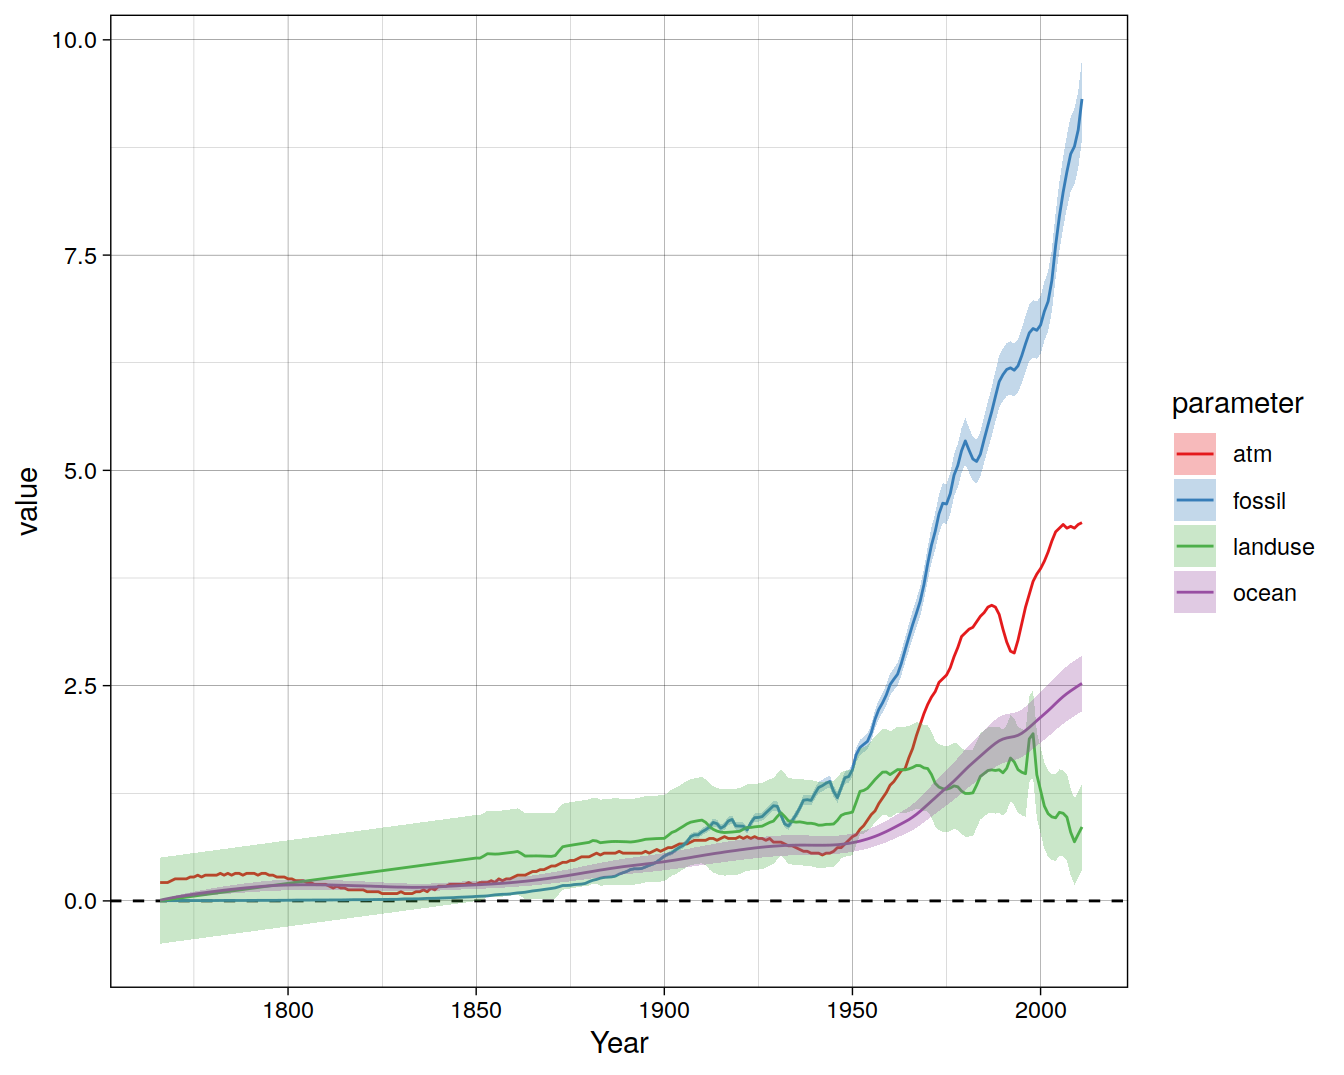
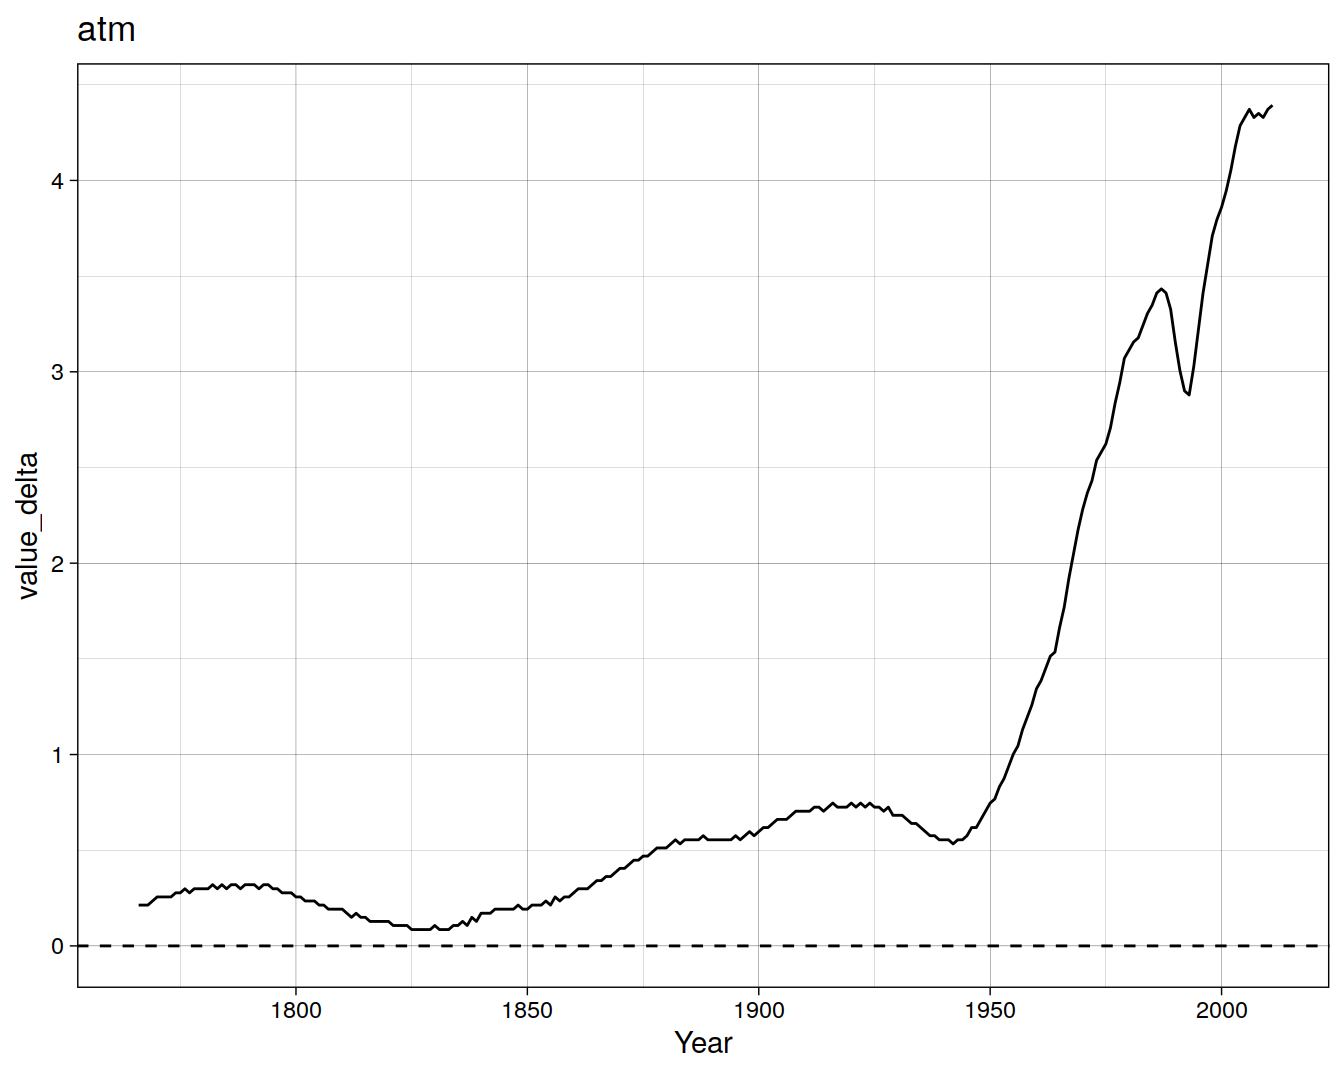
Build site.

diff --git a/docs/interior_storage.html b/docs/interior_storage.html
@@ -494,16 +494,16 @@ This reproducible <a href="https://rmarkdown.rstudio.com">R Markdown</a> analysi
 <div class="panel panel-default">
 <div class="panel-heading">
 <p class="panel-title">
-<a data-toggle="collapse" data-parent="#workflowr-checks" href="#strongRepositoryversionstrongahrefhttpsgithubcomjensdanielmuelleroceancarbonsinkreviewtree8729eda97f576e6bf22db37195b0b09c24f0d1fetargetblank8729edaa"> <span class="glyphicon glyphicon-ok text-success" aria-hidden="true"></span> <strong>Repository version:</strong> <a href="https://github.com/jens-daniel-mueller/ocean_carbon_sink_review/tree/8729eda97f576e6bf22db37195b0b09c24f0d1fe" target="_blank">8729eda</a> </a>
+<a data-toggle="collapse" data-parent="#workflowr-checks" href="#strongRepositoryversionstrongahrefhttpsgithubcomjensdanielmuelleroceancarbonsinkreviewtree1e0391d1a98858e36aef106eb062905f18747d8ftargetblank1e0391da"> <span class="glyphicon glyphicon-ok text-success" aria-hidden="true"></span> <strong>Repository version:</strong> <a href="https://github.com/jens-daniel-mueller/ocean_carbon_sink_review/tree/1e0391d1a98858e36aef106eb062905f18747d8f" target="_blank">1e0391d</a> </a>
 </p>
 </div>
[2 lines of base64/hex data omitted]
 <div class="panel-body">
 <p>
 Great! You are using Git for version control. Tracking code development and connecting the code version to the results is critical for reproducibility.
 </p>
 <p>
-The results in this page were generated with repository version <a href="https://github.com/jens-daniel-mueller/ocean_carbon_sink_review/tree/8729eda97f576e6bf22db37195b0b09c24f0d1fe" target="_blank">8729eda</a>. See the <em>Past versions</em> tab to see a history of the changes made to the R Markdown and HTML files.
+The results in this page were generated with repository version <a href="https://github.com/jens-daniel-mueller/ocean_carbon_sink_review/tree/1e0391d1a98858e36aef106eb062905f18747d8f" target="_blank">1e0391d</a>. See the <em>Past versions</em> tab to see a history of the changes made to the R Markdown and HTML files.
 </p>
 <p>
 Note that you need to be careful to ensure that all relevant files for the analysis have been committed to Git prior to generating the results (you can use <code>wflow_publish</code> or <code>wflow_git_commit</code>). workflowr only checks the R Markdown file, but you know if there are other scripts or data files that it depends on. Below is the status of the Git repository when the results were generated:
@@ -559,6 +559,40 @@ Message
 </tr>
 </thead>
 <tbody>
+<tr>
+<td>
+Rmd
+</td>
+<td>
+<a href="https://github.com/jens-daniel-mueller/ocean_carbon_sink_review/blob/1e0391d1a98858e36aef106eb062905f18747d8f/analysis/interior_storage.Rmd" target="_blank">1e0391d</a>
+</td>
+<td>
+jens-daniel-mueller
+</td>
+<td>
+2022-02-24
+</td>
+<td>
+added interior storage
+</td>
+</tr>
+<tr>
+<td>
+html
+</td>
+<td>
+<a href="https://rawcdn.githack.com/jens-daniel-mueller/ocean_carbon_sink_review/2833f8744bcd07b56011a57b34b866e31e969961/docs/interior_storage.html" target="_blank">2833f87</a>
+</td>
+<td>
+jens-daniel-mueller
+</td>
+<td>
+2022-02-24
+</td>
+<td>
+Build site.
+</td>
+</tr>
 <tr>
 <td>
 Rmd
@@ -813,13 +847,17 @@ khatiwala &lt;- full_join(khatiwala, khatiwala_m) </code></pre>
 <pre><code>Joining, by = c(&quot;Year&quot;, &quot;parameter&quot;)</code></pre>
 <pre class="r"><code>khatiwala &lt;- full_join(khatiwala, khatiwala_p) </code></pre>
 <pre><code>Joining, by = c(&quot;Year&quot;, &quot;parameter&quot;)</code></pre>
-<pre class="r"><code>khatiwala %&gt;% 
-  ggplot(aes(Year, value)) +
-  geom_hline(yintercept = 0, linetype = 2) +
-  scale_color_brewer(palette = &quot;Set1&quot;) +
-  scale_fill_brewer(palette = &quot;Set1&quot;) +
-  geom_line(aes(col=parameter)) +
-  geom_ribbon(aes(ymin = m, ymax = p, fill=parameter), alpha = 0.3)</code></pre>
+<pre class="r"><code>khatiwala %&gt;%
+  group_split(parameter) %&gt;%
+  map(
+    ~ ggplot(data = .x,
+             aes(Year, value)) +
+      geom_hline(yintercept = 0, linetype = 2) +
+      geom_line() +
+      labs(title = .x$parameter) +
+      geom_ribbon(aes(ymin = m, ymax = p), alpha = 0.3)
+  )</code></pre>
+<pre><code>[[1]]</code></pre>
 <pre><code>Warning in max(ids, na.rm = TRUE): no non-missing arguments to max; returning
 -Inf</code></pre>
 <p><img src="figure/interior_storage.Rmd/time_series-1.png" width="672" style="display: block; margin: auto;" /></p>
@@ -845,6 +883,17 @@ Date
 </tr>
 </thead>
 <tbody>
+<tr>
+<td>
+<a href="https://github.com/jens-daniel-mueller/ocean_carbon_sink_review/blob/2833f8744bcd07b56011a57b34b866e31e969961/docs/figure/interior_storage.Rmd/time_series-1.png" target="_blank">2833f87</a>
+</td>
+<td>
+jens-daniel-mueller
+</td>
+<td>
+2022-02-24
+</td>
+</tr>
 <tr>
 <td>
 <a href="https://github.com/jens-daniel-mueller/ocean_carbon_sink_review/blob/bc557cc84c3bc2f92ac664c2266e5f8305e95871/docs/figure/interior_storage.Rmd/time_series-1.png" target="_blank">bc557cc</a>
@@ -882,27 +931,41 @@ jens-daniel-mueller
 </table>
 </div>
 </div>
+<pre><code>
+[[2]]</code></pre>
+<p><img src="figure/interior_storage.Rmd/time_series-2.png" width="672" style="display: block; margin: auto;" /></p>
+<pre><code>
+[[3]]</code></pre>
+<p><img src="figure/interior_storage.Rmd/time_series-3.png" width="672" style="display: block; margin: auto;" /></p>
+<pre><code>
+[[4]]</code></pre>
+<p><img src="figure/interior_storage.Rmd/time_series-4.png" width="672" style="display: block; margin: auto;" /></p>
 </div>
 <div id="rates" class="section level2">
 <h2>rates</h2>
-<pre class="r"><code>khatiwala %&gt;% 
+<pre class="r"><code>khatiwala %&gt;%
   pivot_longer(value:p,
                names_to = &quot;estimate&quot;,
                values_to = &quot;value&quot;) %&gt;%
-  arrange(Year) %&gt;% 
-  group_by(parameter, estimate) %&gt;% 
-  mutate(value_delta = value - lag(value)) %&gt;% 
+  arrange(Year) %&gt;%
+  group_by(parameter, estimate) %&gt;%
+  mutate(value_delta = value - lag(value)) %&gt;%
   ungroup() %&gt;%
-  select(-value) %&gt;% 
+  select(-value) %&gt;%
   pivot_wider(names_from = estimate,
-              values_from = value_delta) %&gt;% 
-  ggplot(aes(Year, value)) +
-  geom_hline(yintercept = 0, linetype = 2) +
-  scale_color_brewer(palette = &quot;Set1&quot;) +
-  scale_fill_brewer(palette = &quot;Set1&quot;) +
-  geom_line(aes(col=parameter)) +
-  geom_ribbon(aes(ymin = m, ymax = p, fill=parameter), alpha = 0.3)</code></pre>
-<pre><code>Warning: Removed 4 row(s) containing missing values (geom_path).</code></pre>
+              values_from = value_delta) %&gt;%
+  rename(value_delta = value) %&gt;% 
+  group_split(parameter) %&gt;%
+  map(
+    ~ ggplot(data = .x, aes(Year, value_delta)) +
+      geom_hline(yintercept = 0, linetype = 2) +
+      geom_line() +
+      labs(title = .x$parameter) +
+      geom_ribbon(aes(
+        ymin = m, ymax = p), alpha = 0.3)
+  )</code></pre>
+<pre><code>[[1]]</code></pre>
+<pre><code>Warning: Removed 1 row(s) containing missing values (geom_path).</code></pre>
 <pre><code>Warning in max(ids, na.rm = TRUE): no non-missing arguments to max; returning
 -Inf</code></pre>
 <p><img src="figure/interior_storage.Rmd/time_series_delta-1.png" width="672" style="display: block; margin: auto;" /></p>
@@ -930,6 +993,17 @@ Date
 <tbody>
 <tr>
 <td>
+<a href="https://github.com/jens-daniel-mueller/ocean_carbon_sink_review/blob/2833f8744bcd07b56011a57b34b866e31e969961/docs/figure/interior_storage.Rmd/time_series_delta-1.png" target="_blank">2833f87</a>
+</td>
+<td>
+jens-daniel-mueller
+</td>
+<td>
+2022-02-24
+</td>
+</tr>
+<tr>
+<td>
 <a href="https://github.com/jens-daniel-mueller/ocean_carbon_sink_review/blob/bc557cc84c3bc2f92ac664c2266e5f8305e95871/docs/figure/interior_storage.Rmd/time_series_delta-1.png" target="_blank">bc557cc</a>
 </td>
 <td>
@@ -954,6 +1028,18 @@ jens-daniel-mueller
 </table>
 </div>
 </div>
+<pre><code>
+[[2]]</code></pre>
+<pre><code>Warning: Removed 1 row(s) containing missing values (geom_path).</code></pre>
+<p><img src="figure/interior_storage.Rmd/time_series_delta-2.png" width="672" style="display: block; margin: auto;" /></p>
+<pre><code>
+[[3]]</code></pre>
+<pre><code>Warning: Removed 1 row(s) containing missing values (geom_path).</code></pre>
+<p><img src="figure/interior_storage.Rmd/time_series_delta-3.png" width="672" style="display: block; margin: auto;" /></p>
+<pre><code>
+[[4]]</code></pre>
+<pre><code>Warning: Removed 1 row(s) containing missing values (geom_path).</code></pre>
+<p><img src="figure/interior_storage.Rmd/time_series_delta-4.png" width="672" style="display: block; margin: auto;" /></p>
 <br>
 <p>
 <button type="button" class="btn btn-default btn-workflowr btn-workflowr-sessioninfo" data-toggle="collapse" data-target="#workflowr-sessioninfo" style="display: block;">
@@ -987,24 +1073,23 @@ other attached packages:
  [9] tidyverse_1.3.1 workflowr_1.7.0
 
 loaded via a namespace (and not attached):
- [1] Rcpp_1.0.8         lubridate_1.8.0    getPass_0.2-2      ps_1.6.0          
- [5] assertthat_0.2.1   rprojroot_2.0.2    digest_0.6.29      utf8_1.2.2        
- [9] R6_2.5.1           cellranger_1.1.0   backports_1.4.1    reprex_2.0.1      
-[13] evaluate_0.14      highr_0.9          httr_1.4.2         pillar_1.6.4      
-[17] rlang_0.4.12       readxl_1.3.1       rstudioapi_0.13    whisker_0.4       
-[21] callr_3.7.0        jquerylib_0.1.4    rmarkdown_2.11     labeling_0.4.2    
-[25] munsell_0.5.0      broom_0.7.11       compiler_4.1.2     httpuv_1.6.5      
-[29] modelr_0.1.8       xfun_0.29          pkgconfig_2.0.3    htmltools_0.5.2   
-[33] tidyselect_1.1.1   fansi_1.0.2        crayon_1.4.2       tzdb_0.2.0        
-[37] dbplyr_2.1.1       withr_2.4.3        later_1.3.0        grid_4.1.2        
-[41] jsonlite_1.7.3     gtable_0.3.0       lifecycle_1.0.1    DBI_1.1.2         
-[45] git2r_0.29.0       magrittr_2.0.1     scales_1.1.1       cli_3.1.1         
-[49] stringi_1.7.6      farver_2.1.0       fs_1.5.2           promises_1.2.0.1  
-[53] xml2_1.3.3         bslib_0.3.1        ellipsis_0.3.2     generics_0.1.1    
-[57] vctrs_0.3.8        RColorBrewer_1.1-2 tools_4.1.2        glue_1.6.0        
-[61] hms_1.1.1          processx_3.5.2     fastmap_1.1.0      yaml_2.2.1        
-[65] colorspace_2.0-2   rvest_1.0.2        knitr_1.37         haven_2.4.3       
-[69] sass_0.4.0        </code></pre>
+ [1] Rcpp_1.0.8       lubridate_1.8.0  getPass_0.2-2    ps_1.6.0        
+ [5] assertthat_0.2.1 rprojroot_2.0.2  digest_0.6.29    utf8_1.2.2      
+ [9] R6_2.5.1         cellranger_1.1.0 backports_1.4.1  reprex_2.0.1    
+[13] evaluate_0.14    highr_0.9        httr_1.4.2       pillar_1.6.4    
+[17] rlang_0.4.12     readxl_1.3.1     rstudioapi_0.13  whisker_0.4     
+[21] callr_3.7.0      jquerylib_0.1.4  rmarkdown_2.11   labeling_0.4.2  
+[25] munsell_0.5.0    broom_0.7.11     compiler_4.1.2   httpuv_1.6.5    
+[29] modelr_0.1.8     xfun_0.29        pkgconfig_2.0.3  htmltools_0.5.2 
+[33] tidyselect_1.1.1 fansi_1.0.2      crayon_1.4.2     tzdb_0.2.0      
+[37] dbplyr_2.1.1     withr_2.4.3      later_1.3.0      grid_4.1.2      
+[41] jsonlite_1.7.3   gtable_0.3.0     lifecycle_1.0.1  DBI_1.1.2       
+[45] git2r_0.29.0     magrittr_2.0.1   scales_1.1.1     cli_3.1.1       
+[49] stringi_1.7.6    farver_2.1.0     fs_1.5.2         promises_1.2.0.1
+[53] xml2_1.3.3       bslib_0.3.1      ellipsis_0.3.2   generics_0.1.1  
+[57] vctrs_0.3.8      tools_4.1.2      glue_1.6.0       hms_1.1.1       
+[61] processx_3.5.2   fastmap_1.1.0    yaml_2.2.1       colorspace_2.0-2
+[65] rvest_1.0.2      knitr_1.37       haven_2.4.3      sass_0.4.0      </code></pre>
 </div>
 </div>
 </div>

diff --git a/docs/index.html b/docs/index.html
@@ -349,16 +349,16 @@ This reproducible <a href="https://rmarkdown.rstudio.com">R Markdown</a> analysi
 <div class="panel panel-default">
 <div class="panel-heading">
 <p class="panel-title">
-<a data-toggle="collapse" data-parent="#workflowr-checks" href="#strongRepositoryversionstrongahrefhttpsgithubcomjensdanielmuelleroceancarbonsinkreviewtree8729eda97f576e6bf22db37195b0b09c24f0d1fetargetblank8729edaa"> <span class="glyphicon glyphicon-ok text-success" aria-hidden="true"></span> <strong>Repository version:</strong> <a href="https://github.com/jens-daniel-mueller/ocean_carbon_sink_review/tree/8729eda97f576e6bf22db37195b0b09c24f0d1fe" target="_blank">8729eda</a> </a>
+<a data-toggle="collapse" data-parent="#workflowr-checks" href="#strongRepositoryversionstrongahrefhttpsgithubcomjensdanielmuelleroceancarbonsinkreviewtree1e0391d1a98858e36aef106eb062905f18747d8ftargetblank1e0391da"> <span class="glyphicon glyphicon-ok text-success" aria-hidden="true"></span> <strong>Repository version:</strong> <a href="https://github.com/jens-daniel-mueller/ocean_carbon_sink_review/tree/1e0391d1a98858e36aef106eb062905f18747d8f" target="_blank">1e0391d</a> </a>
 </p>
 </div>
[2 lines of base64/hex data omitted]
 <div class="panel-body">
 <p>
 Great! You are using Git for version control. Tracking code development and connecting the code version to the results is critical for reproducibility.
 </p>
 <p>
-The results in this page were generated with repository version <a href="https://github.com/jens-daniel-mueller/ocean_carbon_sink_review/tree/8729eda97f576e6bf22db37195b0b09c24f0d1fe" target="_blank">8729eda</a>. See the <em>Past versions</em> tab to see a history of the changes made to the R Markdown and HTML files.
+The results in this page were generated with repository version <a href="https://github.com/jens-daniel-mueller/ocean_carbon_sink_review/tree/1e0391d1a98858e36aef106eb062905f18747d8f" target="_blank">1e0391d</a>. See the <em>Past versions</em> tab to see a history of the changes made to the R Markdown and HTML files.
 </p>
 <p>
 Note that you need to be careful to ensure that all relevant files for the analysis have been committed to Git prior to generating the results (you can use <code>wflow_publish</code> or <code>wflow_git_commit</code>). workflowr only checks the R Markdown file, but you know if there are other scripts or data files that it depends on. Below is the status of the Git repository when the results were generated:
@@ -414,6 +414,23 @@ Message
 </tr>
 </thead>
 <tbody>
+<tr>
+<td>
+html
+</td>
+<td>
+<a href="https://rawcdn.githack.com/jens-daniel-mueller/ocean_carbon_sink_review/2833f8744bcd07b56011a57b34b866e31e969961/docs/index.html" target="_blank">2833f87</a>
+</td>
+<td>
+jens-daniel-mueller
+</td>
+<td>
+2022-02-24
+</td>
+<td>
+Build site.
+</td>
+</tr>
 <tr>
 <td>
 html
